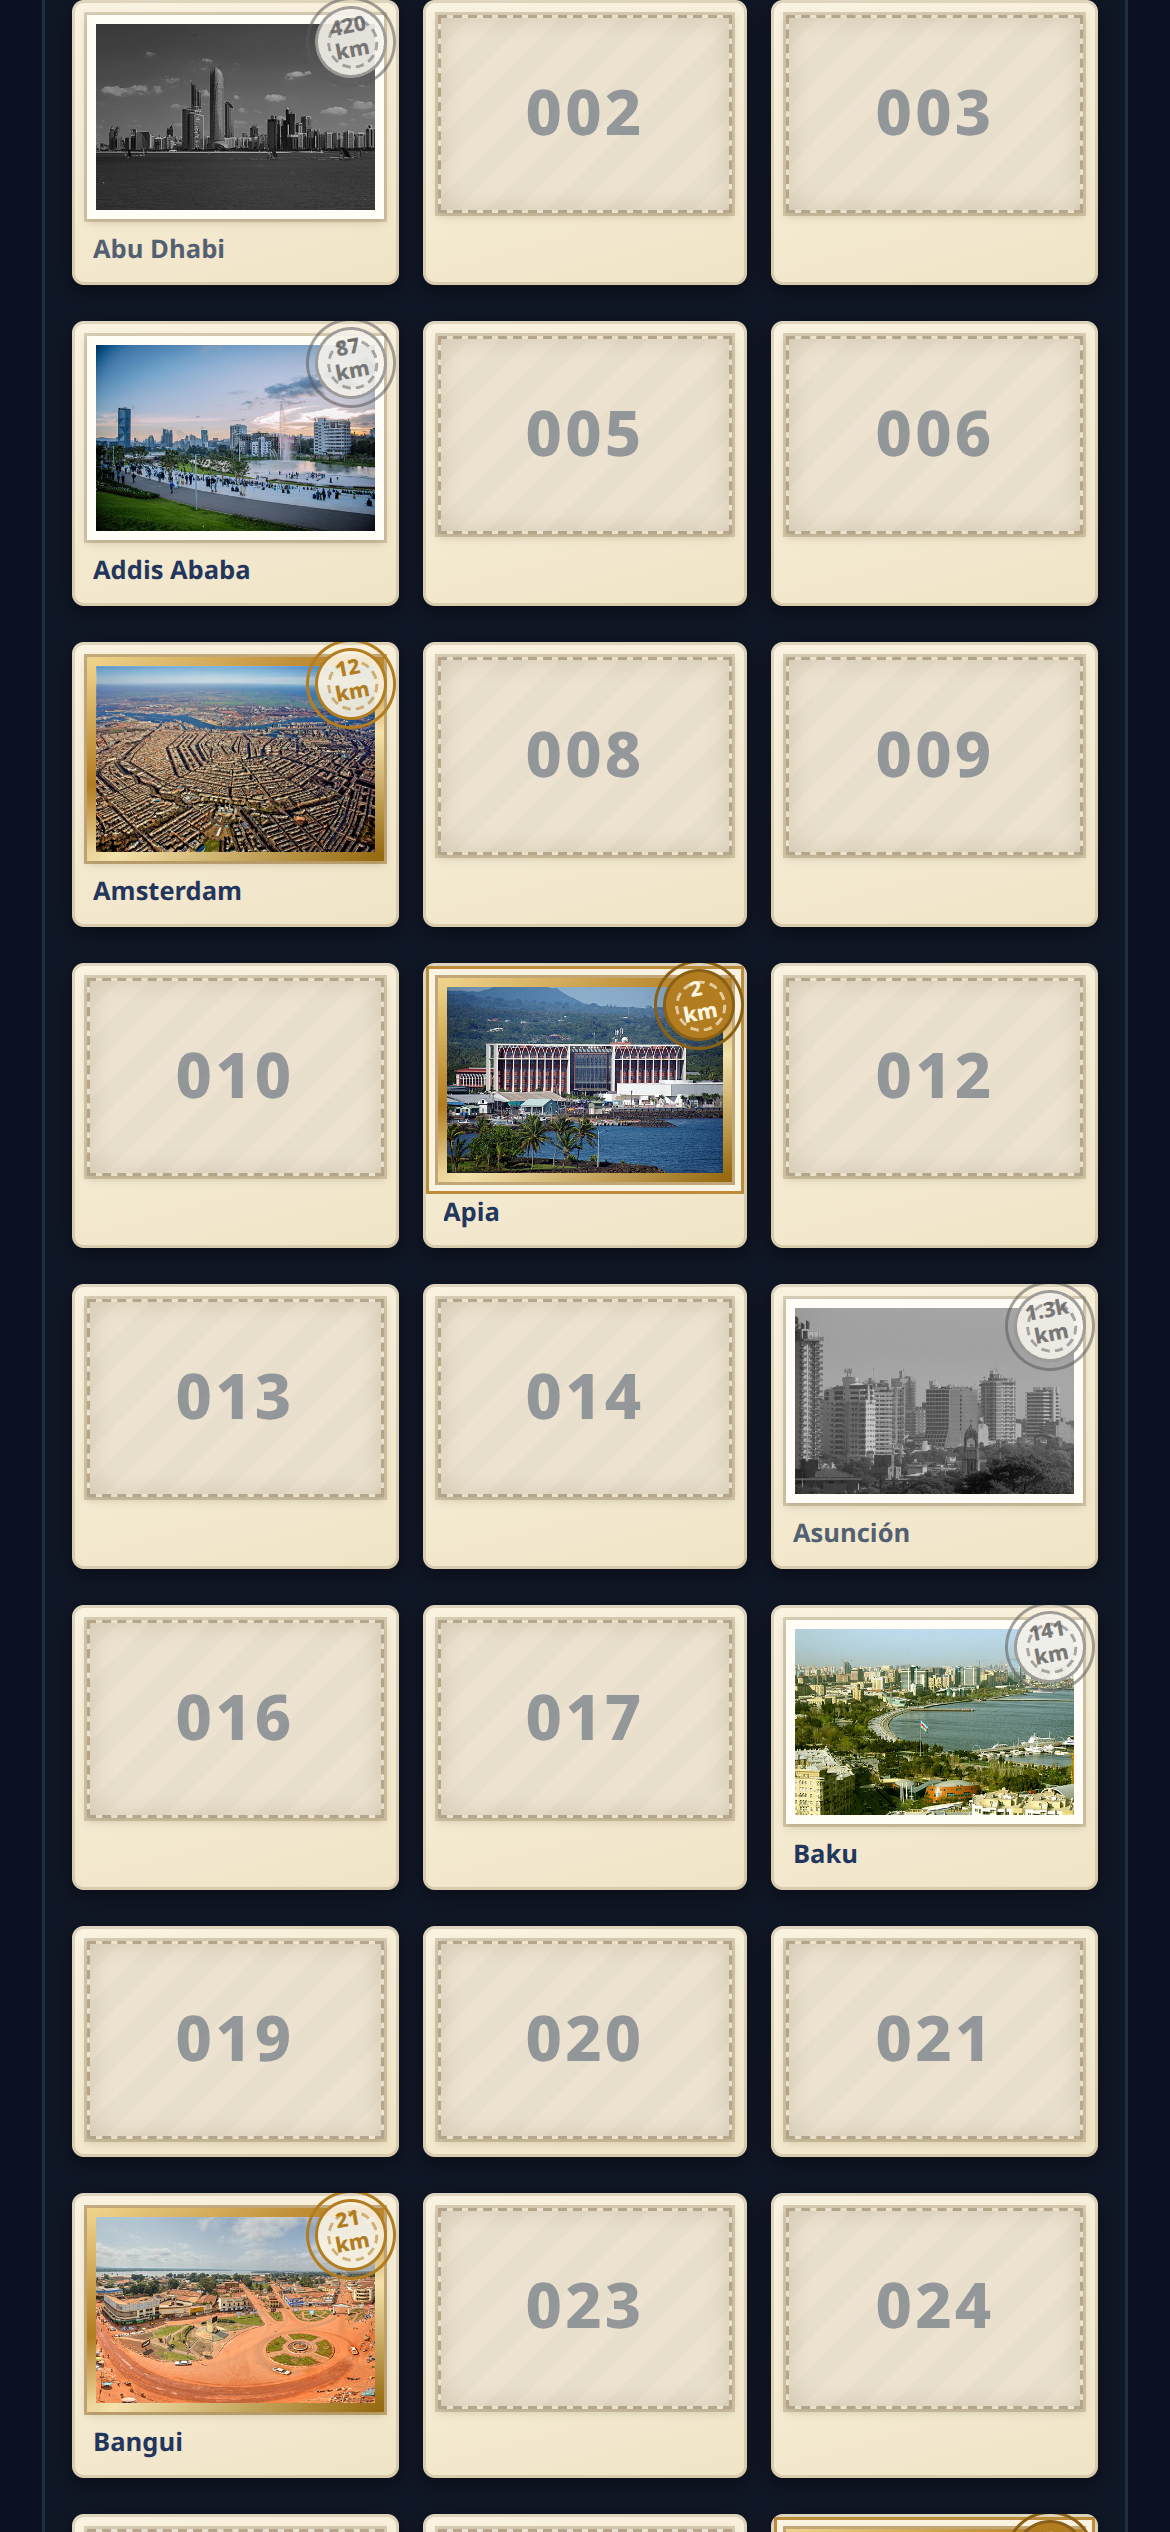
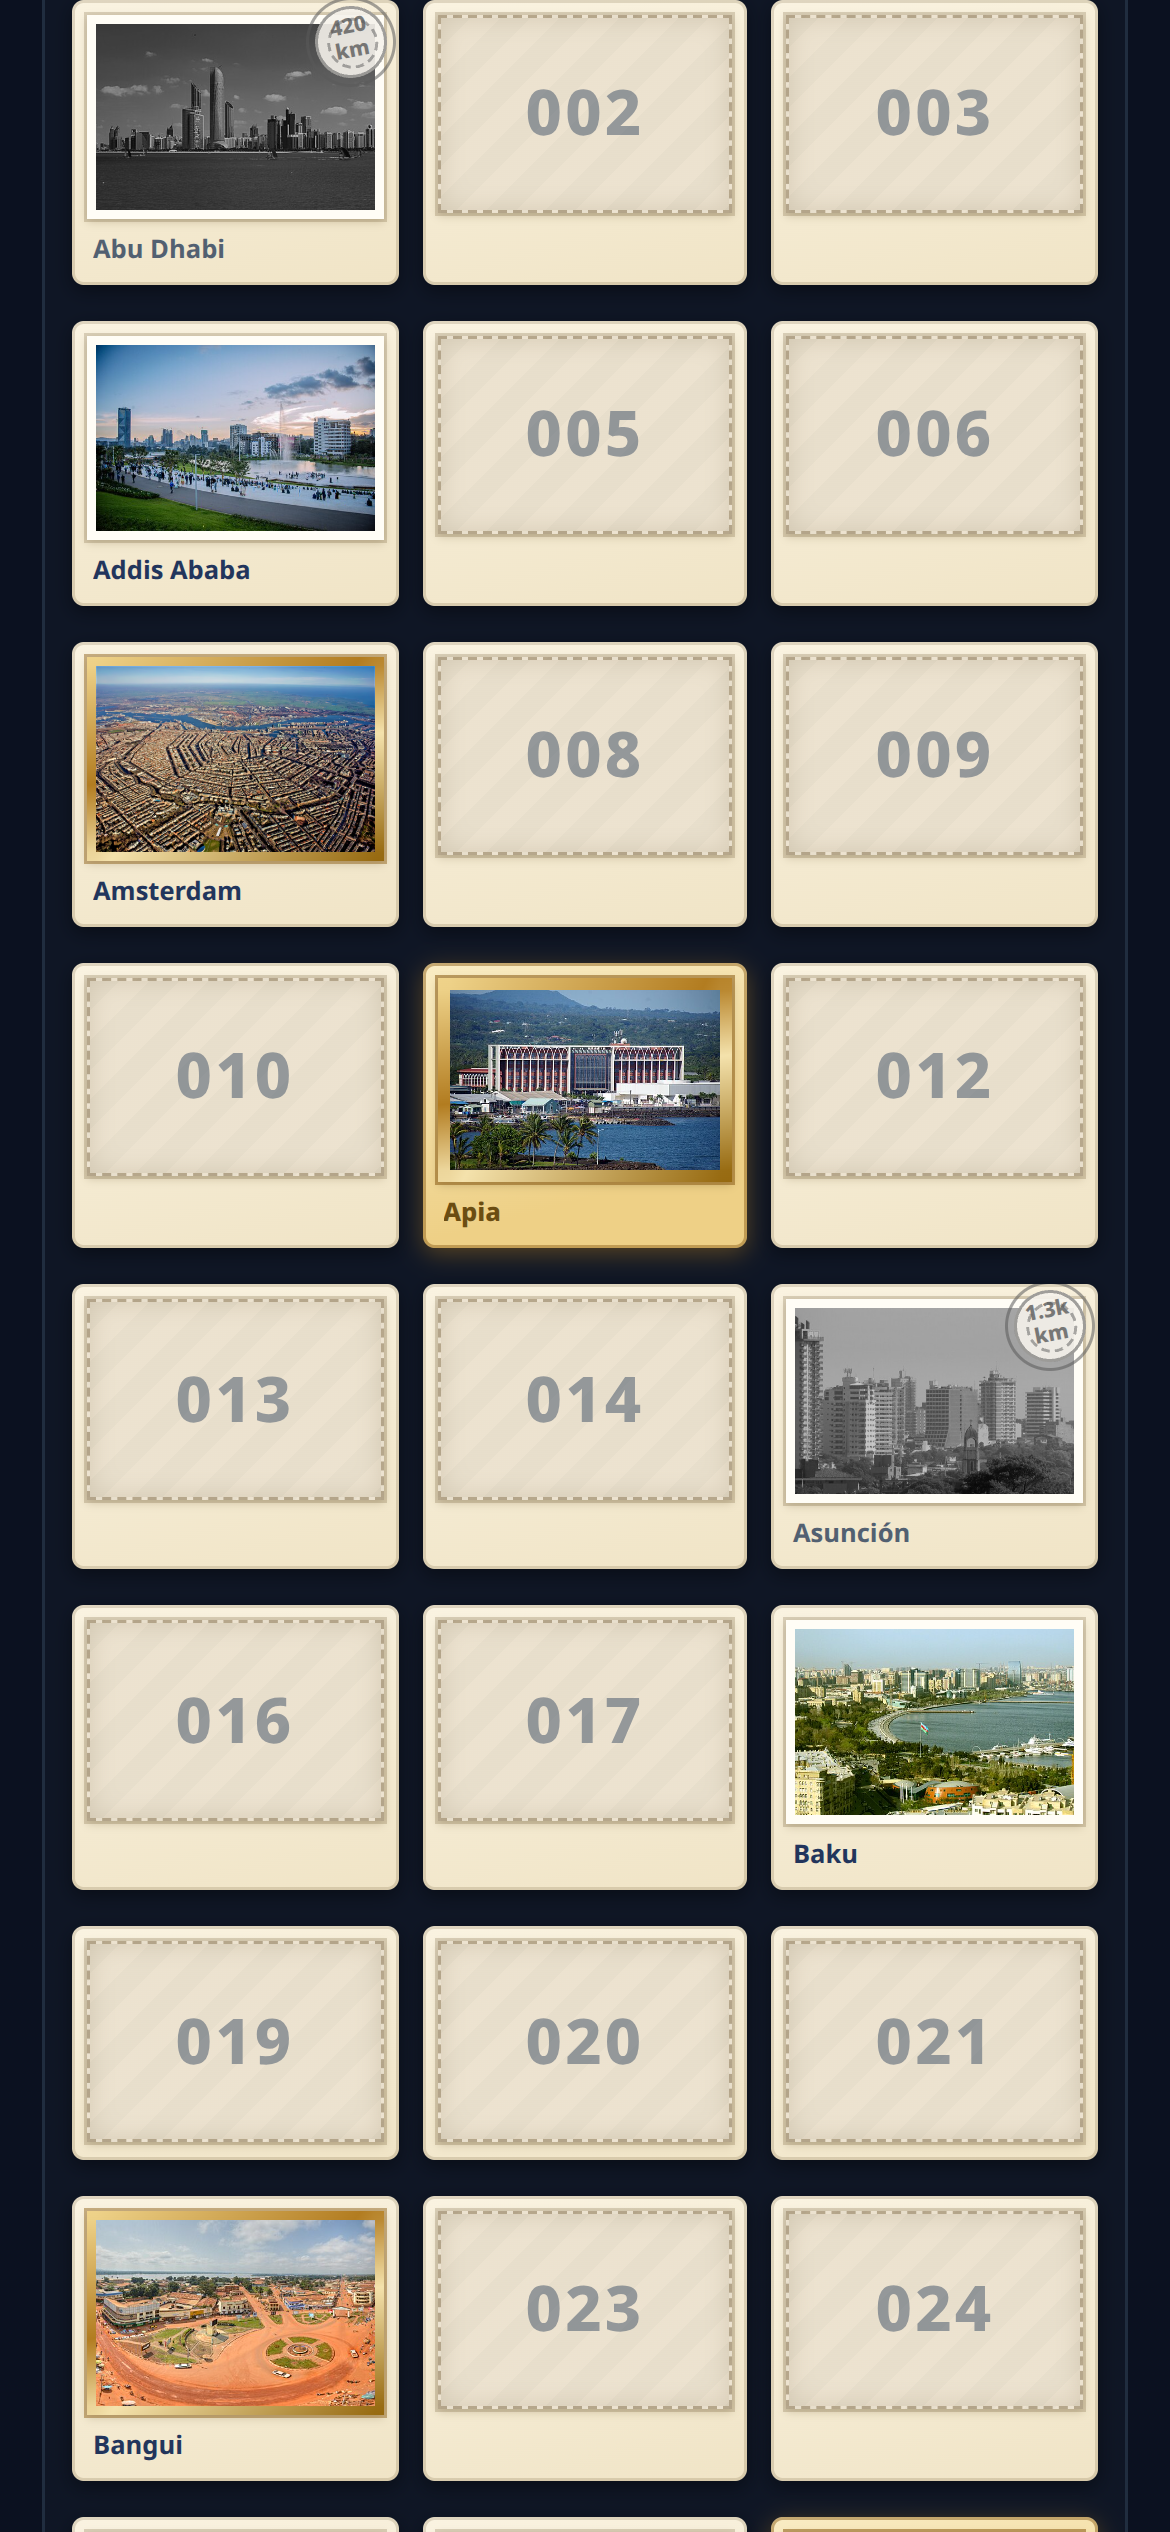
Pinpoint gold card (Option B, Sean 2026-11-04): whole dex tile turns pale gold with a thicker foil frame; collected slots no longer show the km stamp, seen not-yet-collected slots keep it

diff --git a/shots/pinpoint-options/index.html b/shots/pinpoint-options/index.html
@@ -1,0 +1,127 @@
+<!doctype html>
+<html lang="en">
+<head>
+<meta charset="utf-8">
+<meta name="viewport" content="width=device-width, initial-scale=1">
+<title>Pinpoint options (mock)</title>
+<link rel="stylesheet" href="../../src/styles/game.css">
+<style>
+  body { background: #0c1425; margin: 0; font-family: system-ui, sans-serif; }
+  .wrap { width: 390px; margin: 0 auto; padding: 10px 8px 20px; box-sizing: border-box; }
+  .cap { color: #e8edf7; font-size: 14px; font-weight: 700; margin: 18px 2px 2px; }
+  .cap small { display: block; color: #9fb0cc; font-size: 12px; font-weight: 500; margin-top: 2px; line-height: 1.45; }
+  .cap:first-child { margin-top: 2px; }
+  /* Presentation geometry only (matches the measured 390px dex: slot 108.7px, photo 98.7x67.8). Treatments below are the only design changes. */
+  .pp-dex { grid-template-columns: repeat(3, minmax(0, 1fr)); gap: 9px 7px; padding: 6px 2px; }
+  .pp-dex .pp-slot-photo { aspect-ratio: 98.7 / 67.8; }
+  .pp-dex .pp-slot-photo img { width: 100%; height: 100%; object-fit: cover; }
+
+  /* Option A: gold seal. The km stamp circle on a pinpoint becomes a solid gold seal with a star, no numbers. */
+  .opt-a .pp-slot[data-earn="pinpoint"] .pp-slot-score {
+    width: 26px; height: 26px; font-size: 13px;
+    background: radial-gradient(circle at 35% 30%, #f4e2ac, #b27c20 70%);
+    border-color: #8a5f16; outline-color: #8a5f16; color: #fff8e6;
+    text-shadow: 0 1px 1px rgba(90,60,0,.55);
+  }
+  .opt-a .pp-slot[data-earn="pinpoint"] .pp-slot-score::after { border-color: rgba(255,248,230,.7); }
+
+  /* Option B: gold card. The whole pinpoint tile turns pale gold; no stamp at all. */
+  .opt-b .pp-slot[data-earn="pinpoint"] {
+    background: linear-gradient(165deg, #f9ecc4, #eed086 75%);
+    box-shadow: 0 2px 8px rgba(178,124,32,.45), inset 0 0 0 1px rgba(146,102,32,.5);
+  }
+  .opt-b .pp-slot[data-earn="pinpoint"] .pp-slot-photo {
+    border-width: 4px;
+    box-shadow: 0 0 0 1px rgba(146,102,32,.6), 0 1px 3px rgba(101,78,38,.3), inset 0 0 8px rgba(90,70,30,.16);
+  }
+  .opt-b .pp-slot[data-earn="pinpoint"] .pp-slot-name { color: #6b4d12; font-weight: 800; }
+
+  /* Option C: postmark. A gold postmark ring lands on the photo corner; no stamp circle. */
+  .opt-c .pp-slot[data-earn="pinpoint"] .pp-slot-photo { overflow: visible; }
+  .opt-c .postmark {
+    position: absolute; z-index: 3; left: -7px; bottom: -9px; width: 40px; height: 40px;
+    border: 2px solid rgba(178,124,32,.92); border-radius: 50%;
+    display: grid; place-items: center; transform: rotate(-12deg);
+    color: #b27c20; background: rgba(250,243,225,.28);
+    font-size: 15px; line-height: 1; pointer-events: none;
+  }
+  .opt-c .postmark::after {
+    content: ''; position: absolute; inset: 3px; border: 1.2px solid rgba(178,124,32,.75); border-radius: 50%;
+  }
+  .opt-c .postmark i {
+    font-style: normal; font-size: 5.5px; font-weight: 800; letter-spacing: .08em;
+    position: absolute; bottom: 6px; left: 0; right: 0; text-align: center;
+  }
+  .opt-c .postmark b { transform: translateY(-3px); font-size: 14px; }
+</style>
+</head>
+<body>
+<div class="wrap" id="wrap"></div>
+<script>
+  const CITIES = {
+    near:     { img: 'img/lisbon.jpg', name: 'Lisbon', earn: 'near', tier: 'ordinary' },
+    bullseye: { img: 'img/paris.jpg',  name: 'Paris',  earn: 'bullseye', tier: 'bullseye', km: '38<br>km' },
+    pinpoint: { img: 'img/tokyo.jpg',  name: 'Tokyo',  earn: 'pinpoint', tier: 'pinpoint', km: '3<br>km' },
+    pinpoint2:{ img: 'img/kyiv.jpg',   name: 'Kyiv',   earn: 'pinpoint', tier: 'pinpoint', km: '7<br>km' },
+    seen:     { img: 'img/rome.jpg',   name: 'Rome',   earn: 'seen', tier: 'ordinary', km: '812<br>km', gray: true },
+  };
+  function slot(c, { stamp = true, postmark = false, seal = false } = {}) {
+    const li = document.createElement('li');
+    li.className = 'pp-slot'; li.dataset.earn = c.earn;
+    const photo = document.createElement('div'); photo.className = 'pp-slot-photo';
+    const img = document.createElement('img'); img.src = c.img; img.alt = '';
+    if (c.gray) img.style.filter = 'grayscale(1) contrast(.92) brightness(.82)';
+    photo.append(img);
+    if (stamp && c.km) {
+      const s = document.createElement('span');
+      s.className = 'pp-slot-score'; s.dataset.tier = c.tier; s.innerHTML = seal ? '★' : c.km;
+      photo.append(s);
+    }
+    if (postmark) {
+      const pm = document.createElement('span');
+      pm.className = 'postmark'; pm.innerHTML = '<b>★</b><i>PINPOINT</i>';
+      photo.append(pm);
+    }
+    const name = document.createElement('p');
+    name.className = 'pp-slot-name'; name.textContent = c.name;
+    li.append(photo, name);
+    return li;
+  }
+  function unvisited(num) {
+    const li = document.createElement('li');
+    li.className = 'pp-slot pp-unvisited';
+    li.innerHTML = `<div class="pp-slot-photo"><span class="pp-unvisited-number">${num}</span></div><p class="pp-unvisited-note">Capitals pack · Not yet collected</p>`;
+    return li;
+  }
+  function block(cls, title, sub, rows) {
+    const sec = document.createElement('section'); sec.className = cls;
+    sec.innerHTML = `<p class="cap">${title}<small>${sub}</small></p>`;
+    for (const row of rows) {
+      const ul = document.createElement('ul'); ul.className = 'pp-dex';
+      row.forEach(n => ul.append(n));
+      sec.append(ul);
+    }
+    return sec;
+  }
+  const wrap = document.getElementById('wrap');
+  // Control: exactly what is live now (km stamp on every visited slot).
+  wrap.append(block('opt-now', 'Now (live)',
+    'Km stamp on every collected slot. Pinpoint = foil border, cream ring, solid gold stamp.',
+    [[slot(CITIES.near), slot(CITIES.bullseye), slot(CITIES.pinpoint)],
+     [slot(CITIES.seen), unvisited('042'), slot(CITIES.pinpoint2)]]));
+  // Shared rule for A/B/C: collected slots carry no km stamp. Seen (not collected) keeps its km stamp.
+  wrap.append(block('opt-a', 'Option A: gold seal',
+    'Pinpoint keeps its rings and the stamp circle becomes a solid gold seal with a star. No numbers on collected slots.',
+    [[slot(CITIES.near, { stamp: false }), slot(CITIES.bullseye, { stamp: false }), slot(CITIES.pinpoint, { seal: true })],
+     [slot(CITIES.seen), unvisited('042'), slot(CITIES.pinpoint2, { seal: true })]]));
+  wrap.append(block('opt-b', 'Option B: gold card',
+    'The whole pinpoint tile turns pale gold with a thicker foil frame. It reads from across the grid. No stamp.',
+    [[slot(CITIES.near, { stamp: false }), slot(CITIES.bullseye, { stamp: false }), slot(CITIES.pinpoint, { stamp: false })],
+     [slot(CITIES.seen), unvisited('042'), slot(CITIES.pinpoint2, { stamp: false })]]));
+  wrap.append(block('opt-c', 'Option C: postmark',
+    'A gold postmark ring lands on the photo corner, stamped like mail. No stamp circle.',
+    [[slot(CITIES.near, { stamp: false }), slot(CITIES.bullseye, { stamp: false }), slot(CITIES.pinpoint, { stamp: false, postmark: true })],
+     [slot(CITIES.seen), unvisited('042'), slot(CITIES.pinpoint2, { stamp: false, postmark: true })]]));
+</script>
+</body>
+</html>

diff --git a/src/styles/game.css b/src/styles/game.css
@@ -936,18 +936,16 @@ body.game-stats #hud { opacity: 0; }
 .pp-dex .pp-slot-photo { margin: 5px 5px 0; overflow: visible; border: 3px solid #fffdf6; border-radius: 0; background: #d9cdb2; box-shadow: 0 0 0 1px rgba(101,78,38,.22), 0 1px 3px rgba(101,78,38,.25), inset 0 0 8px rgba(90,70,30,.16); }
 .pp-dex .pp-slot-score { top: -6px; right: -4px; bottom: auto; display: flex; align-items: center; justify-content: center; width: 24px; height: 24px; padding: 1px; border: 1.4px solid rgba(90,90,90,.55); background: rgba(245,242,235,.9); outline: 1.2px solid rgba(90,90,90,.55); outline-offset: 2px; color: rgba(90,90,90,.8); font-size: 7px; line-height: 1.15; text-align: center; white-space: normal; transform: rotate(-11deg); box-shadow: none; }
 .pp-dex .pp-slot-score::after { content: ''; position: absolute; inset: 2.5px; border: 1px dashed rgba(90,90,90,.5); border-radius: 50%; pointer-events: none; }
-.pp-dex .pp-slot-score[data-tier="bullseye"], .pp-dex .pp-slot-score[data-tier="pinpoint"] { border-color: #b27c20; background: rgba(250,243,225,.9); outline-color: #b27c20; color: #b27c20; }
-.pp-dex .pp-slot-score[data-tier="bullseye"]::after, .pp-dex .pp-slot-score[data-tier="pinpoint"]::after { border-color: rgba(178,124,32,.55); }
 .pp-dex .pp-slot-name { margin: 6px 7px 0; color: var(--mail-ink); }
 .pp-dex .pp-slot[data-earn="seen"] .pp-slot-name { color: #526071; }
 .pp-dex .pp-slot.is-mystery .pp-slot-photo { border-color: #fffdf6; }
 .pp-dex .pp-slot.is-mystery .pp-slot-name { color: rgba(34,53,92,.55); }
-/* Tier frames (thumbnail tier review, 2026-11-03): the stamp's 7px number cannot carry the tier at dex size, so the photo window's frame does. Near keeps the plain paper-white border; bullseye frames the photo in the pack's satin gold foil; pinpoint adds a second gold rule outside a cream gap and fills its stamp solid gold. */
+/* Tier frames (thumbnail tier review, 2026-11-03; pinpoint revised 2026-11-04): the stamp's 7px number cannot carry the tier at dex size, so the frame does. Near keeps the plain paper-white border; bullseye frames the photo in the pack's satin gold foil; pinpoint (Option B, Sean, 2026-11-04) turns the whole tile pale gold with a thicker foil frame, so it reads at a glance in the grid. Collected slots show no km stamp; the stamp remains only on seen, not-yet-collected slots. */
 .pp-dex .pp-slot[data-earn="bullseye"] .pp-slot-photo, .pp-dex .pp-slot[data-earn="pinpoint"] .pp-slot-photo { border-image: linear-gradient(155deg, #efd38a, #b27c20 38%, #f4e2ac 62%, #96690f) 1; }
 .pp-dex .pp-slot[data-earn="bullseye"] .pp-slot-photo { box-shadow: 0 0 0 1px rgba(146,102,32,.5), 0 1px 3px rgba(101,78,38,.25), inset 0 0 8px rgba(90,70,30,.16); }
-.pp-dex .pp-slot[data-earn="pinpoint"] .pp-slot-photo { box-shadow: 0 0 0 1px rgba(146,102,32,.55), 0 0 0 3px #faf3e1, 0 0 0 4px rgba(178,124,32,.85), 0 1px 3px rgba(101,78,38,.25), inset 0 0 8px rgba(90,70,30,.16); }
-.pp-dex .pp-slot[data-earn="pinpoint"] .pp-slot-score { border-color: #8a5f16; background: #b27c20; outline-color: #8a5f16; color: #fdf6e0; }
-.pp-dex .pp-slot[data-earn="pinpoint"] .pp-slot-score::after { border-color: rgba(253,246,224,.65); }
+.pp-dex .pp-slot[data-earn="pinpoint"] { background: linear-gradient(165deg, #f9ecc4, #eed086 75%); box-shadow: 0 2px 8px rgba(178,124,32,.45), inset 0 0 0 1px rgba(146,102,32,.5); }
+.pp-dex .pp-slot[data-earn="pinpoint"] .pp-slot-photo { border-width: 4px; box-shadow: 0 0 0 1px rgba(146,102,32,.6), 0 1px 3px rgba(101,78,38,.3), inset 0 0 8px rgba(90,70,30,.16); }
+.pp-dex .pp-slot[data-earn="pinpoint"] .pp-slot-name { color: #6b4d12; font-weight: 800; }
 .pp-dex .pps-flag { inset: 4px; border: 1.5px dashed rgba(101,78,38,.4); background: rgba(44,74,124,.05); filter: drop-shadow(0 2px 4px rgba(0,0,0,.18)); }
 
 /* ---------------------------------------------------------------------------

diff --git a/src/meta/passport.js b/src/meta/passport.js
@@ -230,7 +230,10 @@ function passportSlot(entry) {
     earnName: earn,
     entry,
     photo: hasRealPhoto(entry.item) ? 'image' : 'flag',
-    scoreText: pillText,
+    // Collected slots carry no km stamp (Sean, 2026-11-04): the closest
+    // guess belongs on the not-yet-collected postcard, where it reads as
+    // progress, and on the collected postcard's back.
+    scoreText: entry.earned ? null : pillText,
     scoreTier: tier,
   }, {
     variant: 'slot',
